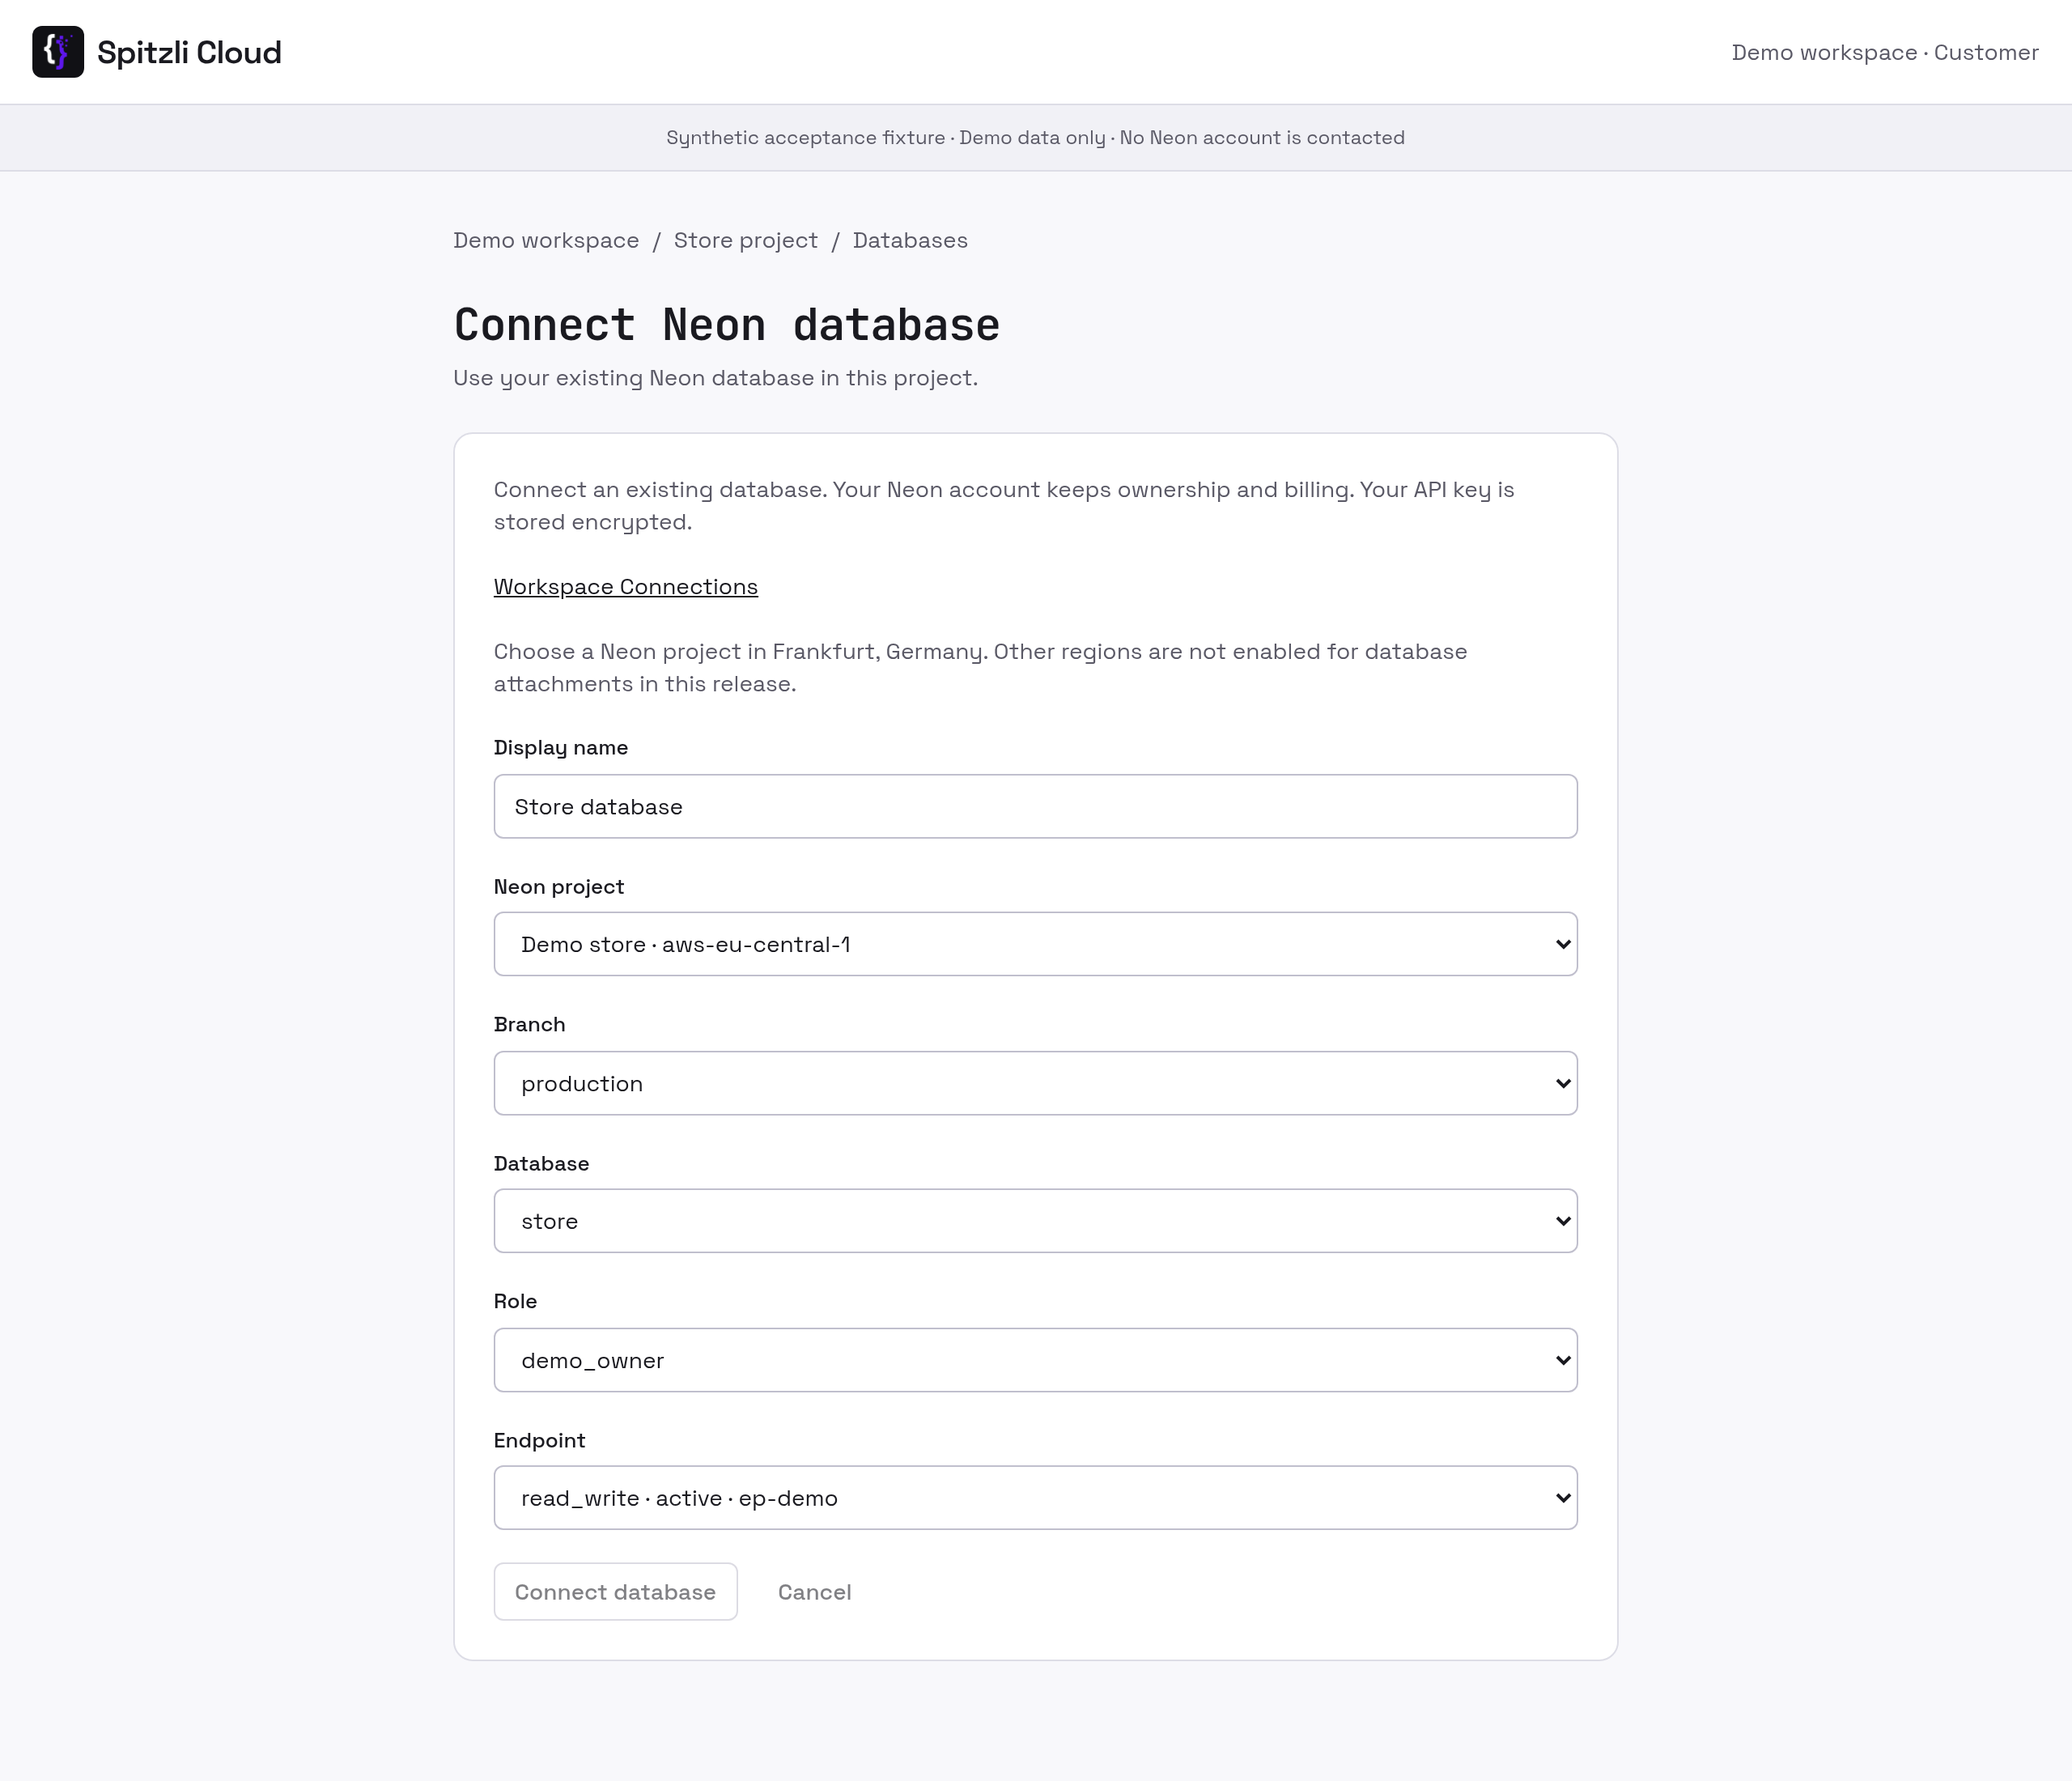
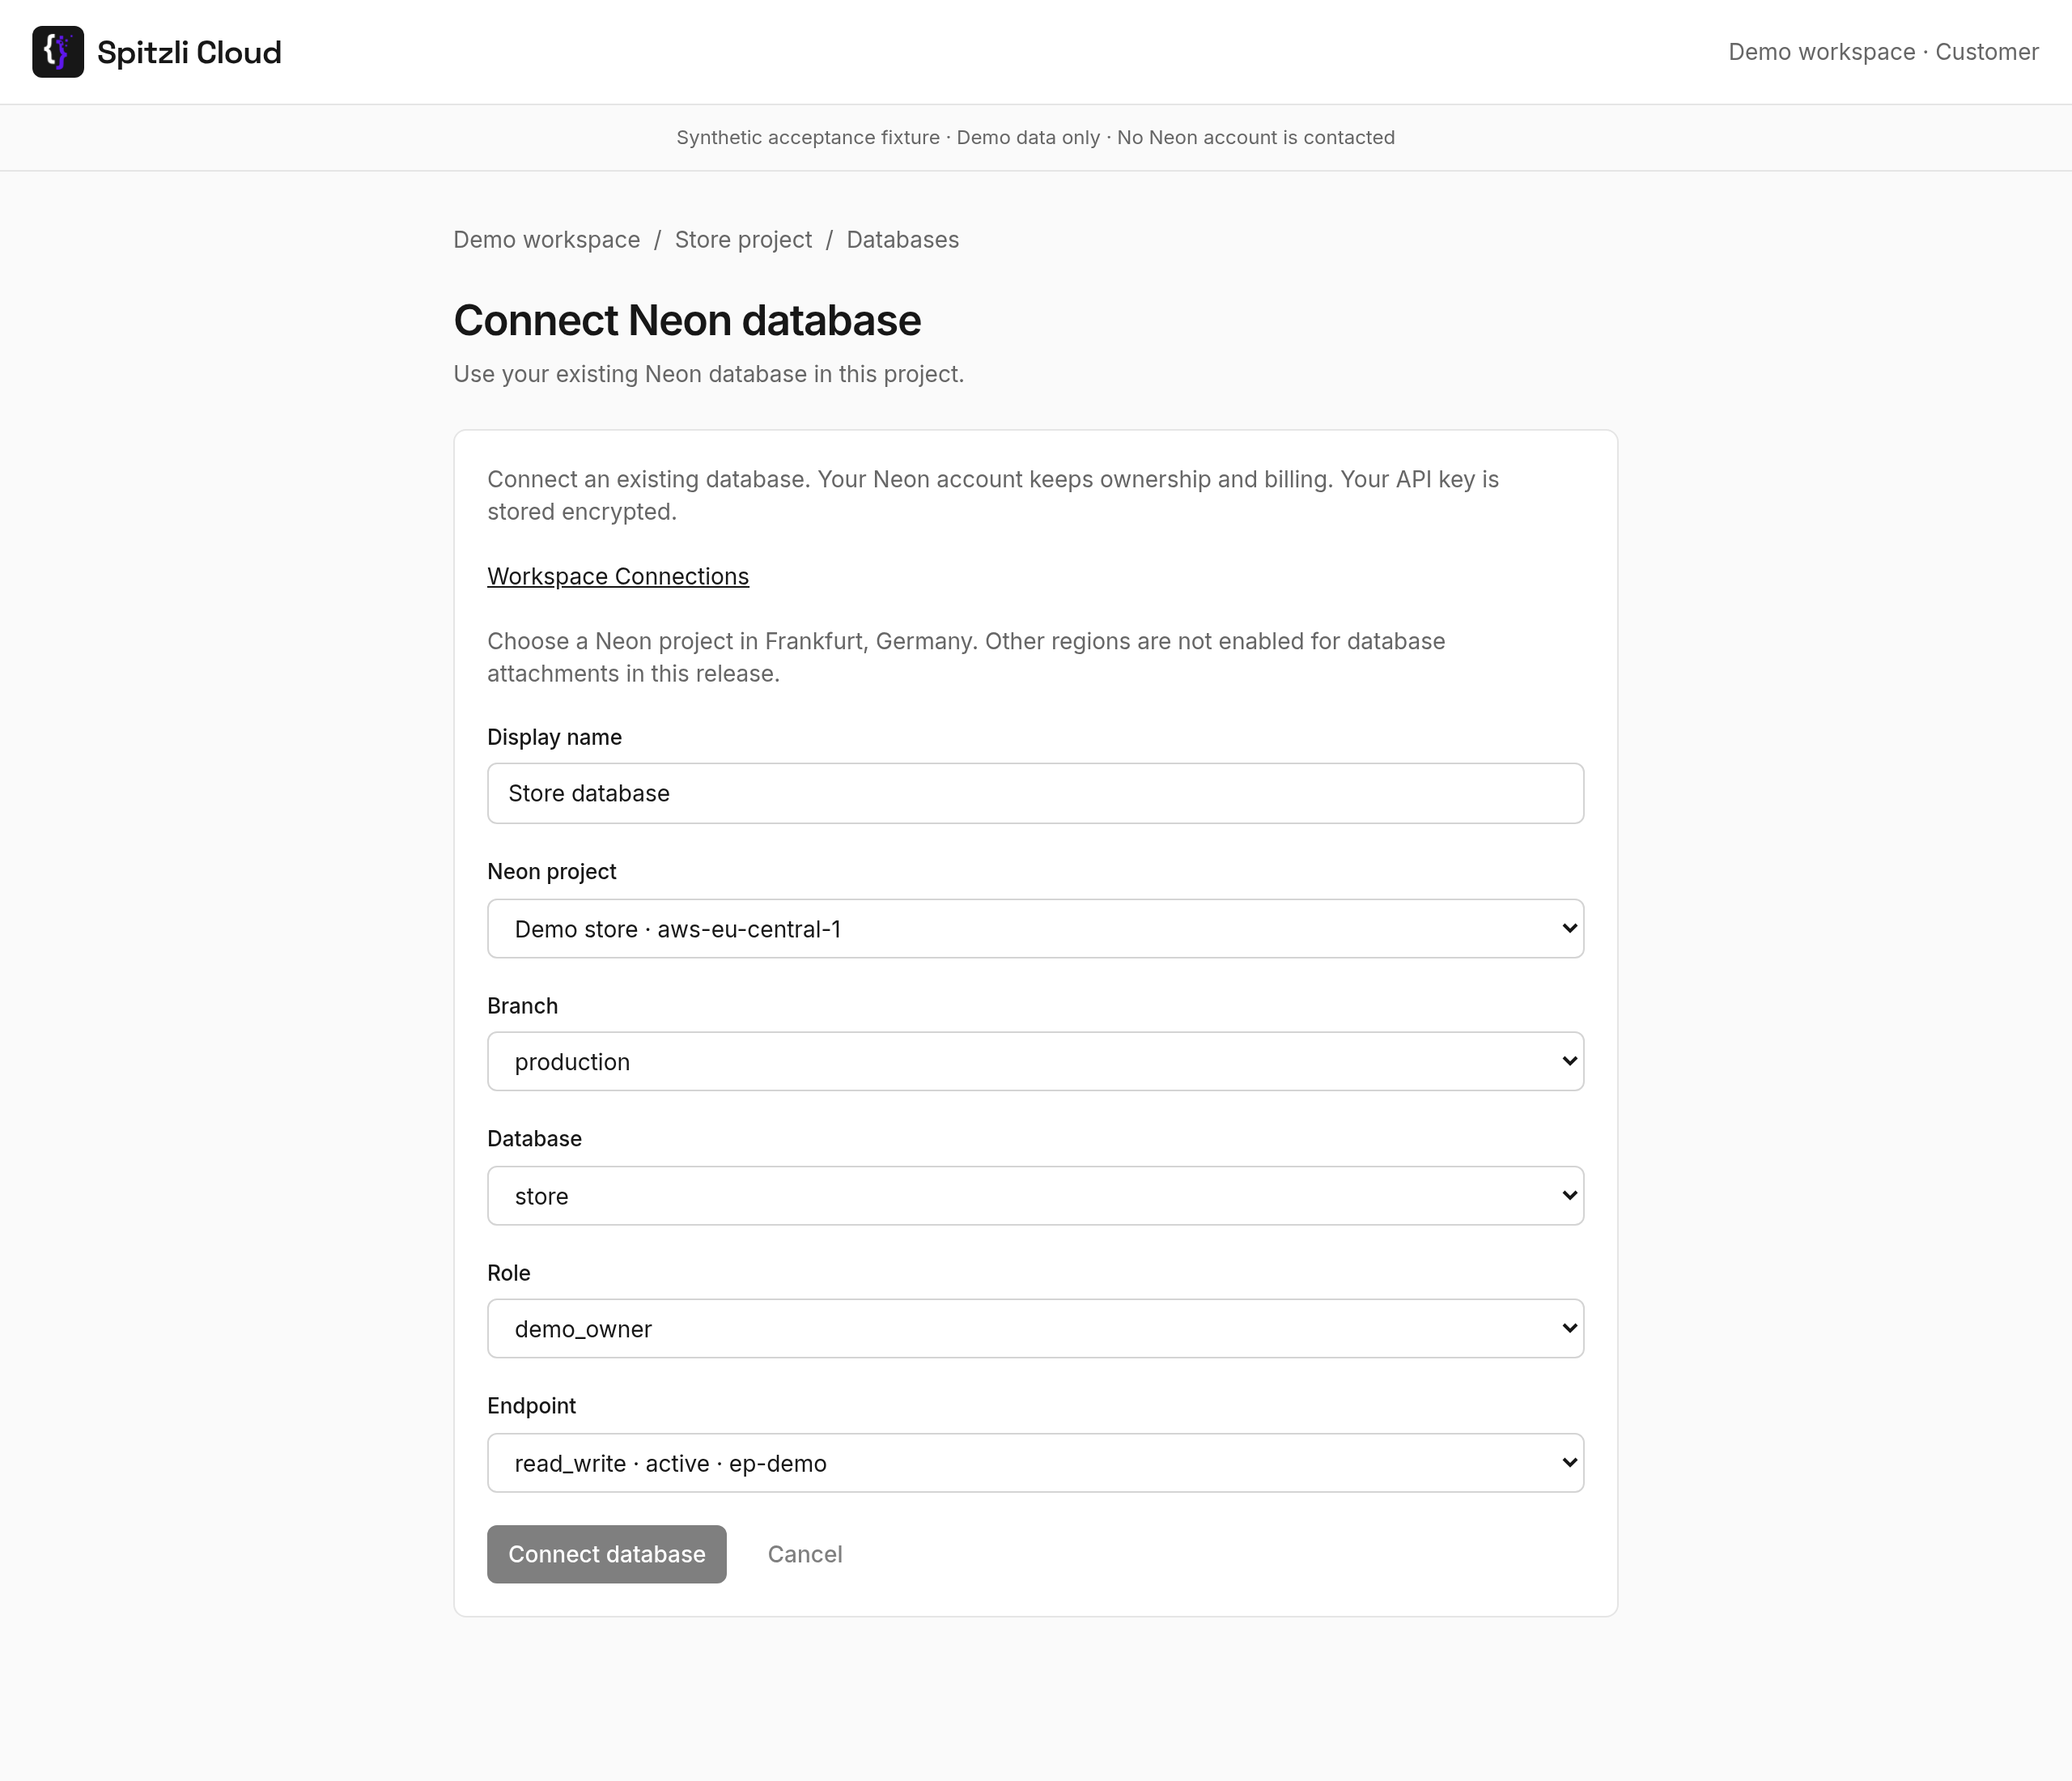
Align plugin view with the native Console design system

diff --git a/ui/index.tsx b/ui/index.tsx
@@ -16,7 +16,7 @@ const attachedSchema = z.object({ resource: item });
 const detachedSchema = z.object({ detached: z.literal(true), resource_id: z.string() });
 const secretSchema = z.object({ value: z.string().max(8000) }).strict();
 const panelSchema = z.object({ title: z.string(), blocks: z.array(z.object({
-  kind: z.string(), title: z.string().optional(), text: z.string().optional(),
+  kind: z.string(), title: z.string().optional(), text: z.string().optional(), state: z.string().max(64).optional(),
   columns: z.array(z.object({ key: z.string(), label: z.string() })).optional(),
   rows: z.array(z.record(z.string(), z.union([z.string(), z.boolean(), z.null()]))).optional(),
 })) });
@@ -108,7 +108,7 @@ function Create(context: CreateProps) {
     {inventory.error ? <div role="alert"><p>{t("Could not load Neon inventory. Check your connection and permissions.")}</p><button type="button" className={ui.button("quiet")} onClick={() => void inventory.refetch()}>{t("Retry")}</button></div> : null}
     {data && !data.projects.length && !project ? <p className="text-sm text-muted">{t("No authorized Neon projects found. Check the workspace connection or create a project in Neon.")}</p> : null}
     {attach.error ? <p role="alert" className="text-sm text-danger">{t("Could not attach this database. You can retry the same selection.")}</p> : null}
-    <div className="flex flex-wrap gap-3"><button type="submit" className={ui.button()} disabled={!ready}>{attach.isPending ? t("Connecting…") : t("Connect database")}</button><button type="button" className={ui.button("quiet")} disabled={attach.isPending} onClick={context.onCancel}>{t("Cancel")}</button></div>
+    <div className="flex flex-wrap gap-3"><button type="submit" className={ui.button("primary")} disabled={!ready}>{attach.isPending ? t("Connecting…") : t("Connect database")}</button><button type="button" className={ui.button("quiet")} disabled={attach.isPending} onClick={context.onCancel}>{t("Cancel")}</button></div>
   </form>;
 }
 function Table({ panel }: { panel: z.infer<typeof panelSchema> }) {
@@ -158,10 +158,11 @@ function Resource(context: ResourceProps) {
   const detach = usePluginSubmission(context, "databases.detach", detachedSchema);
   const key = useRef(crypto.randomUUID());
   const [confirming, setConfirming] = useState(false);
+  const status = view.data?.blocks.find(block => block.kind === "status");
   const canReveal = context.writable && (!context.actions || context.actions.includes("databases.credentials"));
   const canDetach = context.writable && (!context.actions || context.actions.includes("databases.detach"));
-  return <div className="grid gap-6">
-    <section className={ui.card}><div className={ui.cardBody}><h2 className={ui.sectionTitle}>{view.data?.title ?? context.resource.name}</h2><p className="text-sm text-muted">{panelText(view.data?.blocks.find(block => block.kind === "status")?.text, t)}</p>{context.writable ? <Connections customer={context.customer} /> : null}</div></section>
+  return <div className={ui.resourceGrid}>
+    <section className={ui.card}><div className={ui.cardBody}><div className="flex flex-wrap items-center justify-between gap-3"><h2 className={ui.sectionTitle}>{t("Overview")}</h2>{context.writable ? <Connections customer={context.customer} /> : null}</div>{status?.text ? <span className={ui.cx(ui.badge(ui.statusTone(status.state)), "w-fit max-w-full whitespace-normal normal-case")} role="status">{panelText(status.text, t)}</span> : null}</div></section>
     {view.isPending ? <Loading>{t("Loading Neon database…")}</Loading> : view.error ? <Failure error={view.error} retry={() => void view.refetch()} /> : <Table panel={view.data} />}
     {context.writable ? <BranchInventory context={context} /> : null}
     {canReveal && view.data && !view.error ? <Credentials key={context.resource.id} context={context} /> : null}
